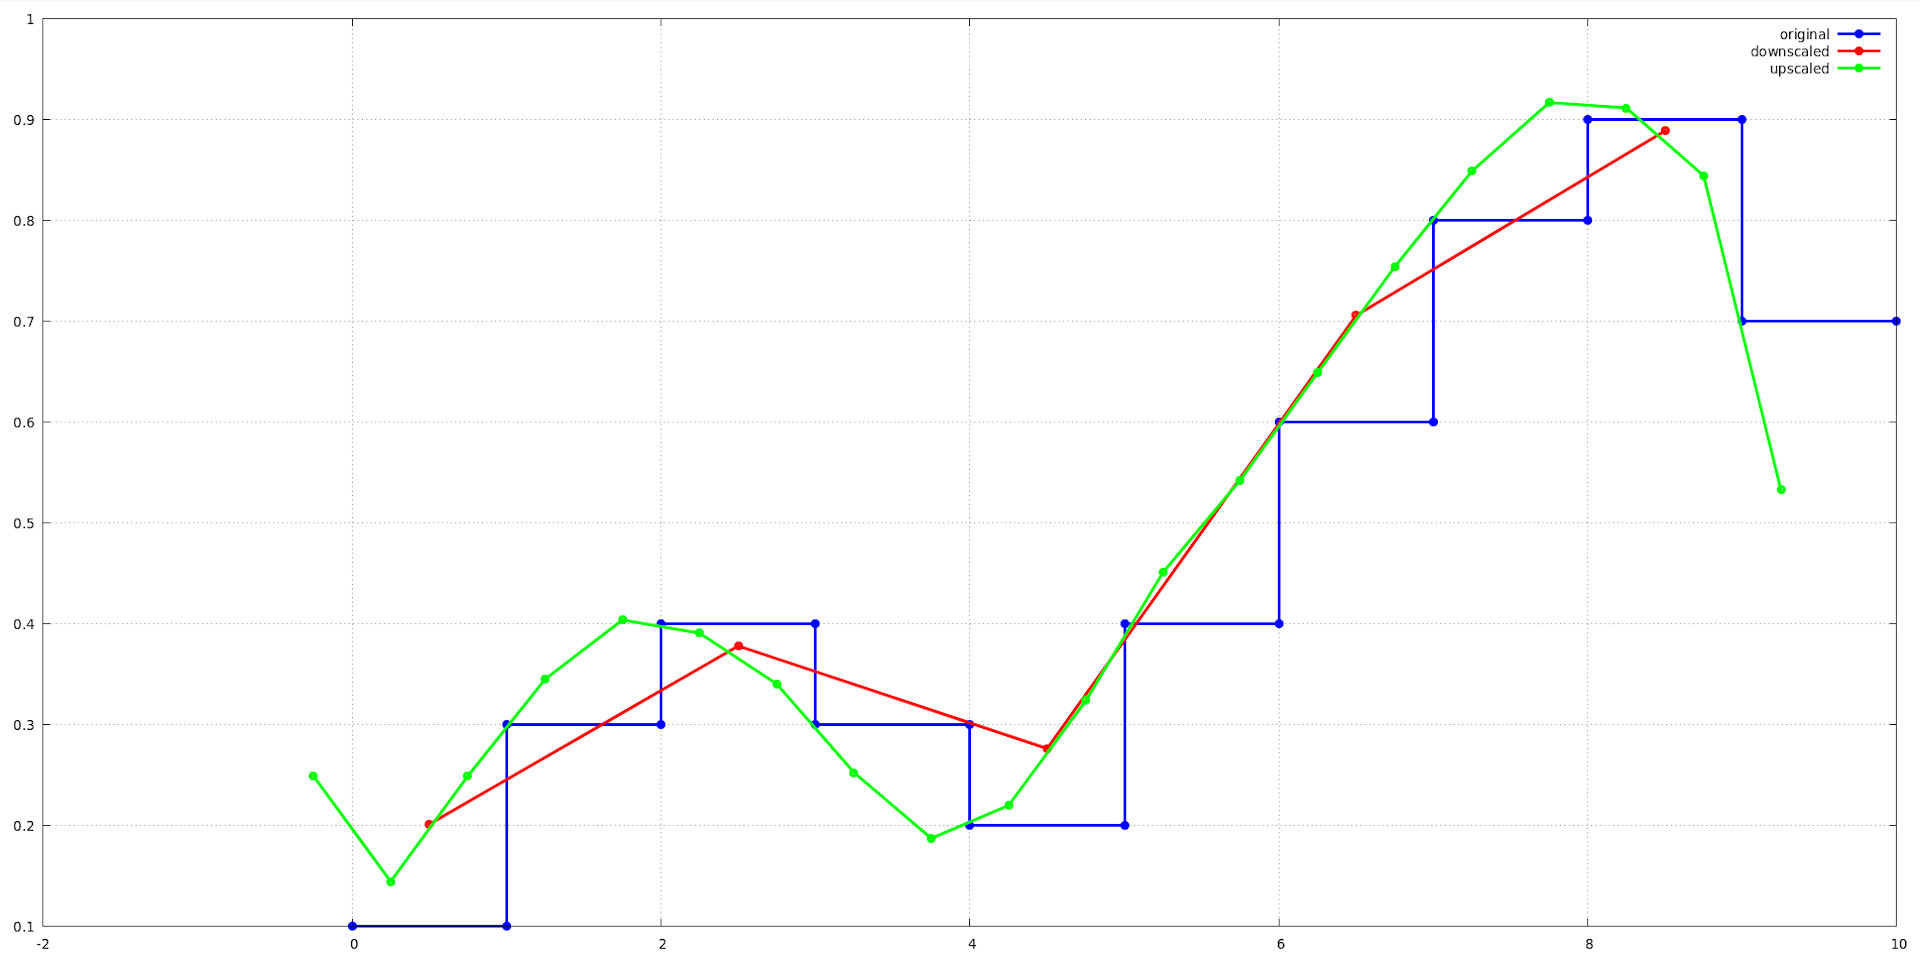
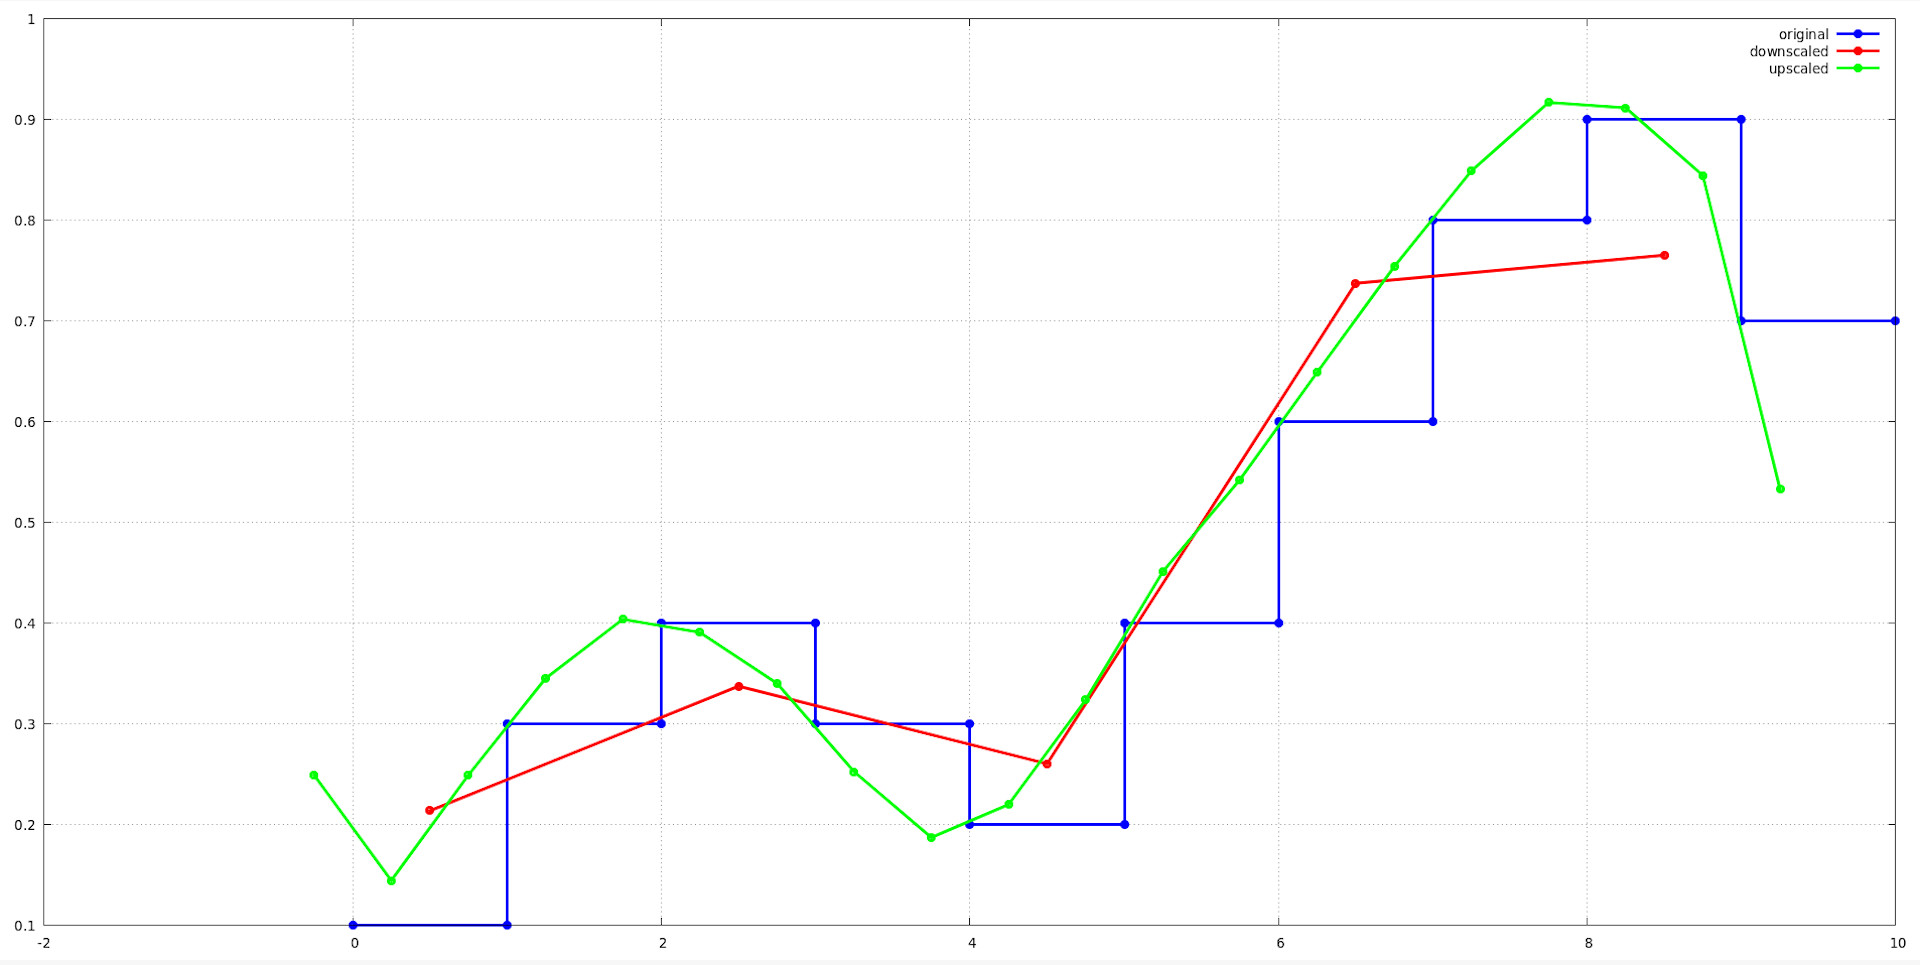
fix downscaling filter scale (fs)

diff --git a/lanczos-test.c b/lanczos-test.c
@@ -110,6 +110,7 @@ int main(int argc, char** argv)
 	int    n2 = 5;
 	int    fs = n1/n2;
 	int    a  = 3*fs;
+	double fsd = (double) fs;
 	double s2;
 	double l;
 	double x;
@@ -124,7 +125,7 @@ int main(int argc, char** argv)
 		s2 = 0.0;
 		for(i = -a + 1; i < a; ++i)
 		{
-			l   = L(i - x + floor(x), a);
+			l   = L((i - x + floor(x))/fsd, a);
 			s1  = S1(((int) x) + i);
 			s2 += s1*l;
 			w  += l;
